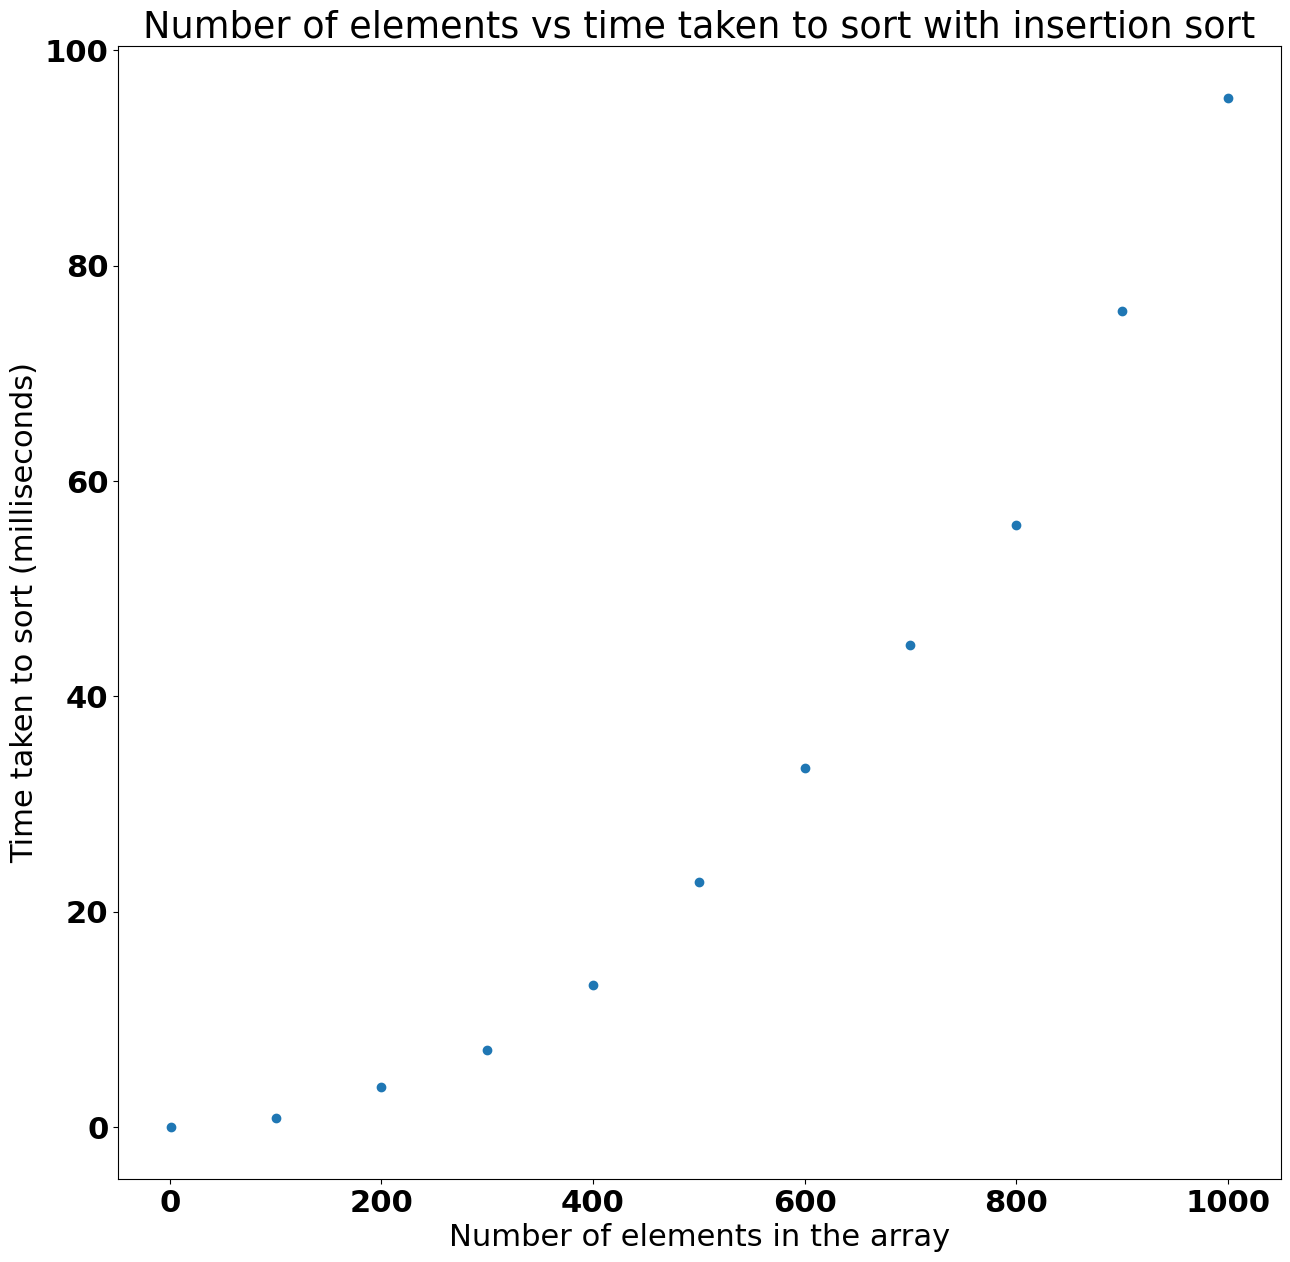
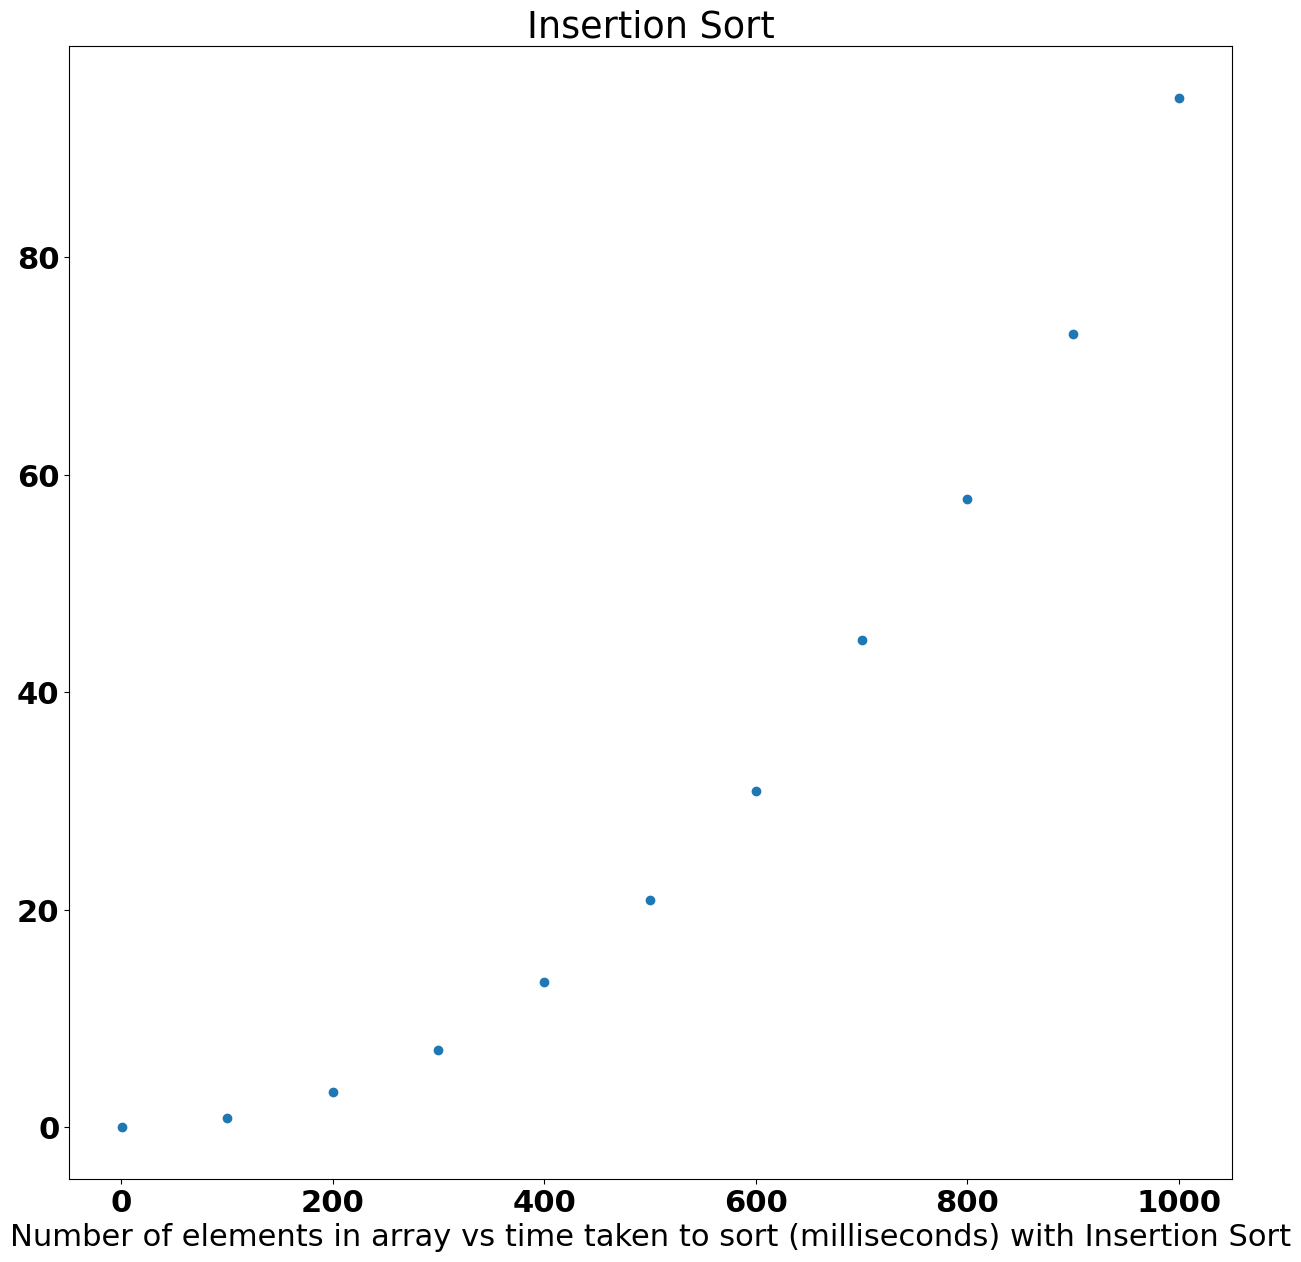
Included timing estimates
I realized I missed significant portions of parts 2 & 3. So here I added code to estimate both insertion sort and merge sort, as well as plot both of them.
Images have been added to the folder as well.

diff --git a/DM_Project2_Final.py b/DM_Project2_Final.py
@@ -8,6 +8,7 @@ Created on Mon April 27 2021
 import matplotlib.pyplot as plt
 import numpy as np
 from timeit import default_timer as timer
+import time
 
 ################### START: Basic Setup ######################
 #Leave this block uncommented all the time
@@ -35,8 +36,7 @@ plt.rc('font', **font)
 # Python program for implementation of MergeSort
 # from: https://www.geeksforgeeks.org/merge-sort/
 def mergeSort(arr):
-    if len(arr) > 1:
- 
+    if len(arr) > 1: 
          # Finding the mid of the array
         mid = len(arr)//2
         # Dividing the array elements
@@ -67,6 +67,12 @@ def mergeSort(arr):
             arr[k] = R[j]
             j += 1
             k += 1
+            
+def mergeSortEstimate(n):
+    if n <= 1:
+        return 0
+    else:
+        return mergeSortEstimate(np.floor(n/2)) + mergeSortEstimate(np.ceil(n/2)) + (n-1)
             
 # Define insertionSort algorithm
 def insertionSort(arr):
@@ -246,6 +252,10 @@ timeTakenArr_ins = []   #empty array to store timing information
 
 #Sort all the arrays, saving timing information
 for arr in arrN_ins:
+    # sleep for 1 second
+    # Spyder likes to print while code is running, which can mess with timing information
+    # This just helps ensure accurate information
+    time.sleep(1)
     startTime = timer()
     
     insertionSort(arr)
@@ -253,12 +263,37 @@ for arr in arrN_ins:
     endTime = timer()
     print("Time taken to sort an array of " + str(len(arr)) + " elements in milliseconds: " + str((endTime - startTime) * 1000))
     timeTakenArr_ins.append((endTime - startTime) * 1000)
+    
+    
+# Estimate time taken with formula: 0.5*(t*t) + (0.5*t) - 1
+timeEst_ins = []
+for i in range(len(numElements_ins)):
+    timeEst_ins.append(0.5*(numElements_ins[i]*numElements_ins[i]) + 0.5*numElements_ins[i] - 1)
+
+# Scale the estimates to match our measurements
+scaleFactor = timeTakenArr_ins[10] / timeEst_ins[10]
+for i in range(len(timeEst_ins)):
+    timeEst_ins[i] = timeEst_ins[i] * scaleFactor
+    
 
 # plot the data
 plt.scatter(numElements_ins, timeTakenArr_ins)
-plt.xlabel("Number of elements in the array")
-plt.ylabel("Time taken to sort (milliseconds)")
-plt.title("Number of elements vs time taken to sort with insertion sort")
+plt.xlabel("Number of elements in array vs time taken to sort (milliseconds) with Insertion Sort")
+plt.ylabel("")
+plt.title("Insertion Sort")
+plt.show()
+
+plt.scatter(numElements_ins, timeEst_ins)
+plt.xlabel("Number of elements in array vs time taken to sort (milliseconds) with Insertion Sort")
+plt.ylabel("")
+plt.title("Insertion Sort time estimate assuming O((n^2)/2 + n^2 + 1) complexity")
+plt.show()
+
+plt.scatter(numElements_ins, timeTakenArr_ins)
+plt.scatter(numElements_ins, timeEst_ins)
+plt.xlabel("Number of elements in array vs time taken to sort (milliseconds) with Insertion Sort")
+plt.ylabel("Blue: Measured time, Orange: Estimated time")
+plt.title("Insertion Sort time compared with estimated time")
 plt.show()
 
 ##################### END: Section 2 #####################
@@ -284,19 +319,50 @@ timeTakenArr_merge = []   #empty array to store timing information
 
 #sort all the arrays, maintaining timing information
 for arr in arrN_merge:
+    # sleep for 1 second
+    # Spyder likes to print while code is running, which can mess with timing information
+    # This just helps ensure accurate information
+    time.sleep(1)
+    
     startTime = timer()
     
     mergeSort(arr)
     
     endTime = timer()
+    
     print("Time taken to sort an array of " + str(len(arr)) + " elements in milliseconds: " + str((endTime - startTime) * 1000))
     timeTakenArr_merge.append((endTime - startTime) * 1000)
 
+# Estimate time taken with recursive formula: 𝑚𝑛 = 𝑚⌊𝑛/2⌋ + 𝑚⌈𝑛/2⌉ + (𝑛 − 1) for 𝑛 > 1 with 𝑚1 = 0
+timeEst_merge = []
+for i in range(len(numElements_merge)):
+    timeEst_merge.append(mergeSortEstimate(numElements_merge[i]))
+
+# Scale the estimates to match our measurements
+scaleFactor = timeTakenArr_merge[10] / timeEst_merge[10]
+for i in range(len(timeEst_ins)):
+    timeEst_merge[i] = timeEst_merge[i] * scaleFactor
+
+
+
 # plot the data
 plt.scatter(numElements_merge, timeTakenArr_merge)
-plt.xlabel("Number of elements in the array")
-plt.ylabel("Time taken to sort (milliseconds)")
-plt.title("Number of elements vs time taken to sort with merge sort")
+plt.xlabel("Number of elements in array vs time taken to sort (milliseconds) with Merge Sort")
+plt.ylabel("")
+plt.title("Merge Sort")
+plt.show()
+
+plt.scatter(numElements_merge, timeEst_merge)
+plt.xlabel("Number of elements in array vs time taken to sort (milliseconds) with Merge Sort")
+plt.ylabel("")
+plt.title("Merge Sort time estimate assuming m(n) = m⌊n/2⌋ + m⌈n/2⌉ + (n − 1) for n > 1 with m(1) = 0")
+plt.show()
+
+plt.scatter(numElements_merge, timeTakenArr_merge)
+plt.scatter(numElements_merge, timeEst_merge)
+plt.xlabel("Number of elements in array vs time taken to sort (milliseconds) with Merge Sort")
+plt.ylabel("Blue: Measured time, Orange: Estimated time")
+plt.title("Merge Sort time compared with estimated time")
 plt.show()
 
 ##################### END: Section 3 #####################
